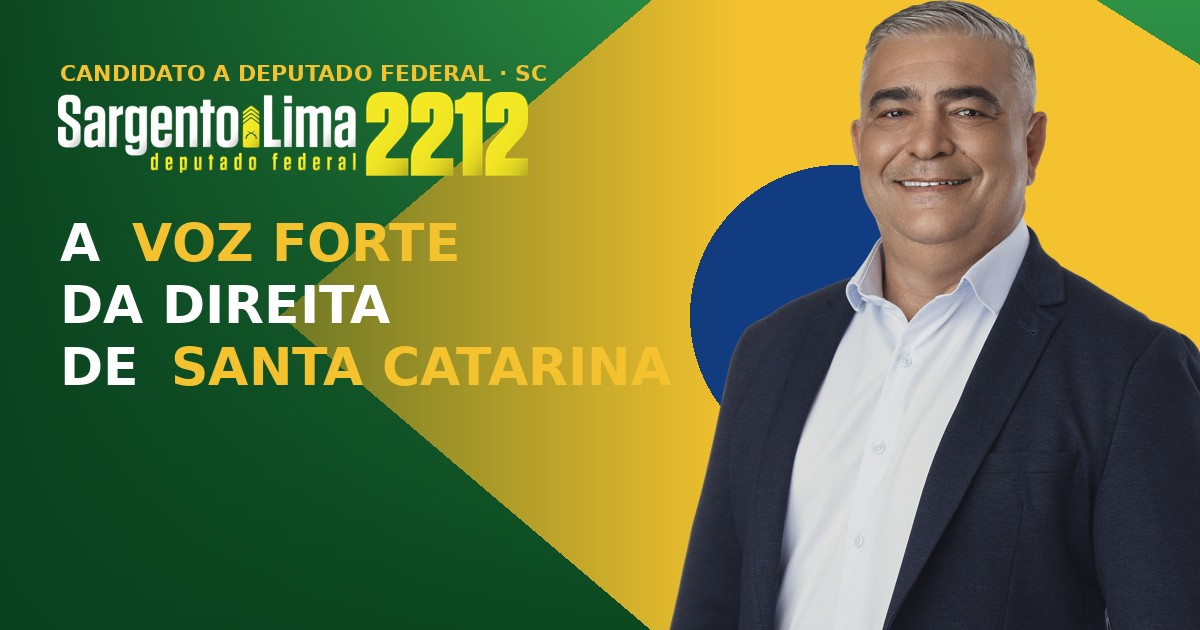
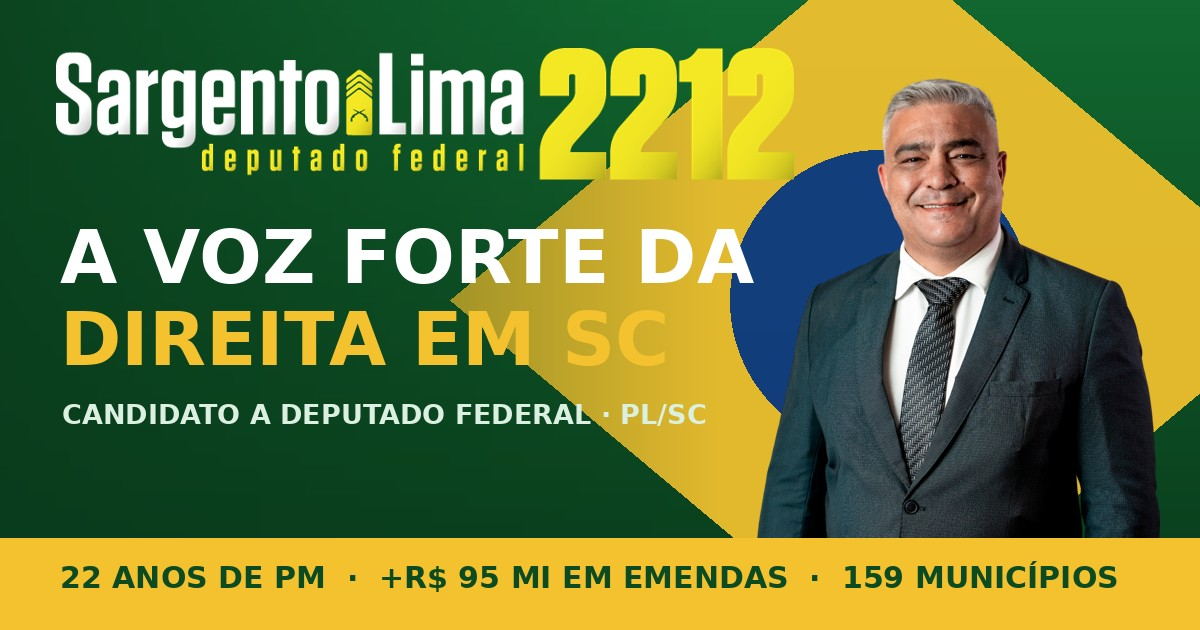
Nova og.jpg da home no padrao campanha + cache-bust

diff --git a/index.html b/index.html
@@ -20,7 +20,7 @@
 <meta property="og:url" content="https://sargentolima.com.br/">
 <meta property="og:title" content="Sargento Lima 2212 — A voz forte da direita de Santa Catarina">
 <meta property="og:description" content="Candidato a Deputado Federal (PL). 22 anos de Polícia Militar, mais de R$ 95 milhões em emendas para 159 municípios. Segurança, ordem e resultado.">
-<meta property="og:image" content="https://sargentolima.com.br/assets/og.jpg">
+<meta property="og:image" content="https://sargentolima.com.br/assets/og.jpg?v=2">
 <meta property="og:image:width" content="1200">
 <meta property="og:image:height" content="630">
 <meta property="og:image:alt" content="Sargento Lima 2212 — Candidato a Deputado Federal">
@@ -28,7 +28,7 @@
 <meta name="twitter:card" content="summary_large_image">
 <meta name="twitter:title" content="Sargento Lima 2212 — A voz forte da direita de SC">
 <meta name="twitter:description" content="Candidato a Deputado Federal (PL). 22 anos de PM, +R$ 95 mi em emendas para 159 municípios.">
-<meta name="twitter:image" content="https://sargentolima.com.br/assets/og.jpg">
+<meta name="twitter:image" content="https://sargentolima.com.br/assets/og.jpg?v=2">
 <meta name="twitter:site" content="@depsargentolima">
 <!-- Performance -->
 <link rel="preconnect" href="https://unpkg.com" crossorigin>
@@ -38,7 +38,7 @@
 <link rel="stylesheet" href="https://unpkg.com/leaflet@1.9.4/dist/leaflet.css">
 <script src="https://unpkg.com/leaflet@1.9.4/dist/leaflet.js"></script>
 <script type="application/ld+json">
-{"@context":"https://schema.org","@type":"Person","name":"Carlos Henrique de Lima","alternateName":"Sargento Lima","jobTitle":"Deputado Estadual","birthDate":"1972-08-06","gender":"Male","nationality":"Brasileira","url":"https://sargentolima.com.br/","image":"https://sargentolima.com.br/assets/og.jpg","email":"dep.sargentolima@alesc.sc.gov.br","telephone":"+55-48-3221-2966","worksFor":{"@type":"GovernmentOrganization","name":"Assembleia Legislativa do Estado de Santa Catarina"},"address":{"@type":"PostalAddress","streetAddress":"Rua Dr. Jorge Luz Fontes, 310","addressLocality":"Florianópolis","addressRegion":"SC","postalCode":"88020-900","addressCountry":"BR"},"sameAs":["https://www.instagram.com/depsargentolima/","https://www.facebook.com/depsargentolima/","https://x.com/depsargentolima","https://linktr.ee/Sargentolima"]}
+{"@context":"https://schema.org","@type":"Person","name":"Carlos Henrique de Lima","alternateName":"Sargento Lima","jobTitle":"Deputado Estadual","birthDate":"1972-08-06","gender":"Male","nationality":"Brasileira","url":"https://sargentolima.com.br/","image":"https://sargentolima.com.br/assets/og.jpg?v=2","email":"dep.sargentolima@alesc.sc.gov.br","telephone":"+55-48-3221-2966","worksFor":{"@type":"GovernmentOrganization","name":"Assembleia Legislativa do Estado de Santa Catarina"},"address":{"@type":"PostalAddress","streetAddress":"Rua Dr. Jorge Luz Fontes, 310","addressLocality":"Florianópolis","addressRegion":"SC","postalCode":"88020-900","addressCountry":"BR"},"sameAs":["https://www.instagram.com/depsargentolima/","https://www.facebook.com/depsargentolima/","https://x.com/depsargentolima","https://linktr.ee/Sargentolima"]}
 </script>
 <script type="application/ld+json">
 {"@context":"https://schema.org","@type":"WebSite","name":"Sargento Lima — Deputado por Santa Catarina","url":"https://sargentolima.com.br/","inLanguage":"pt-BR","about":"Atuação parlamentar do deputado estadual Sargento Lima em Santa Catarina"}
